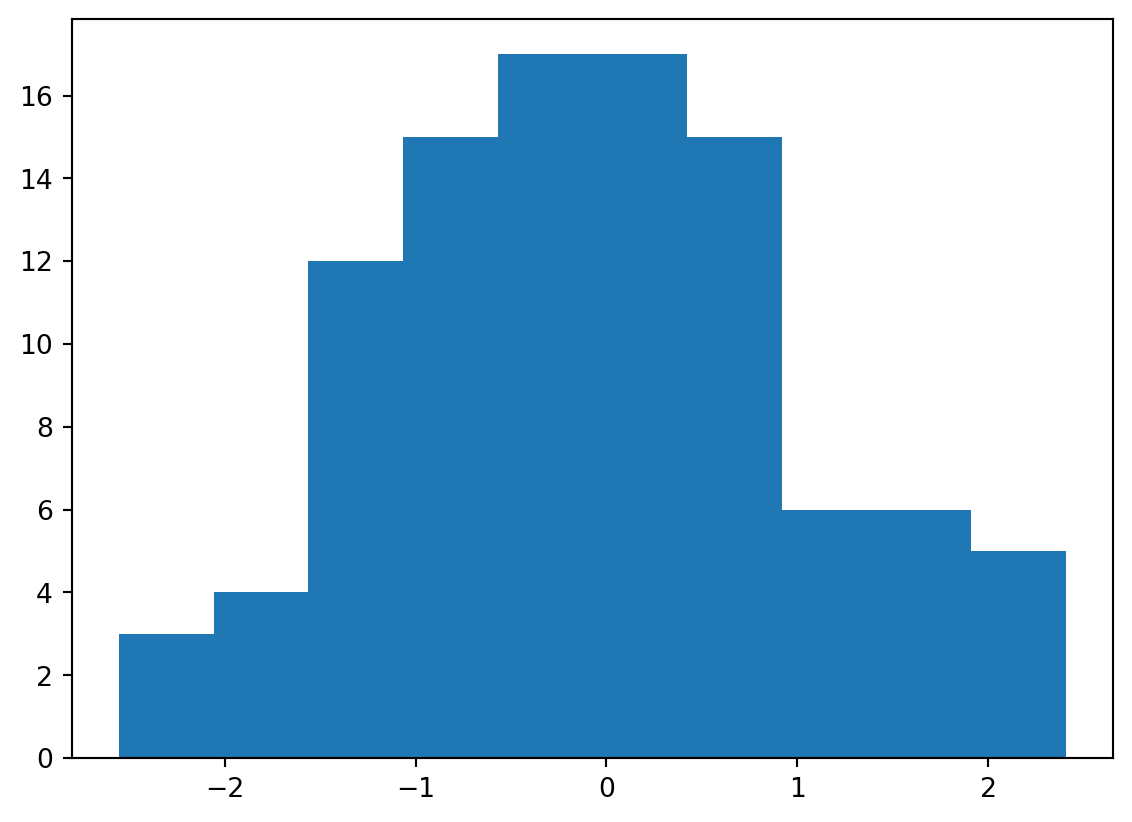
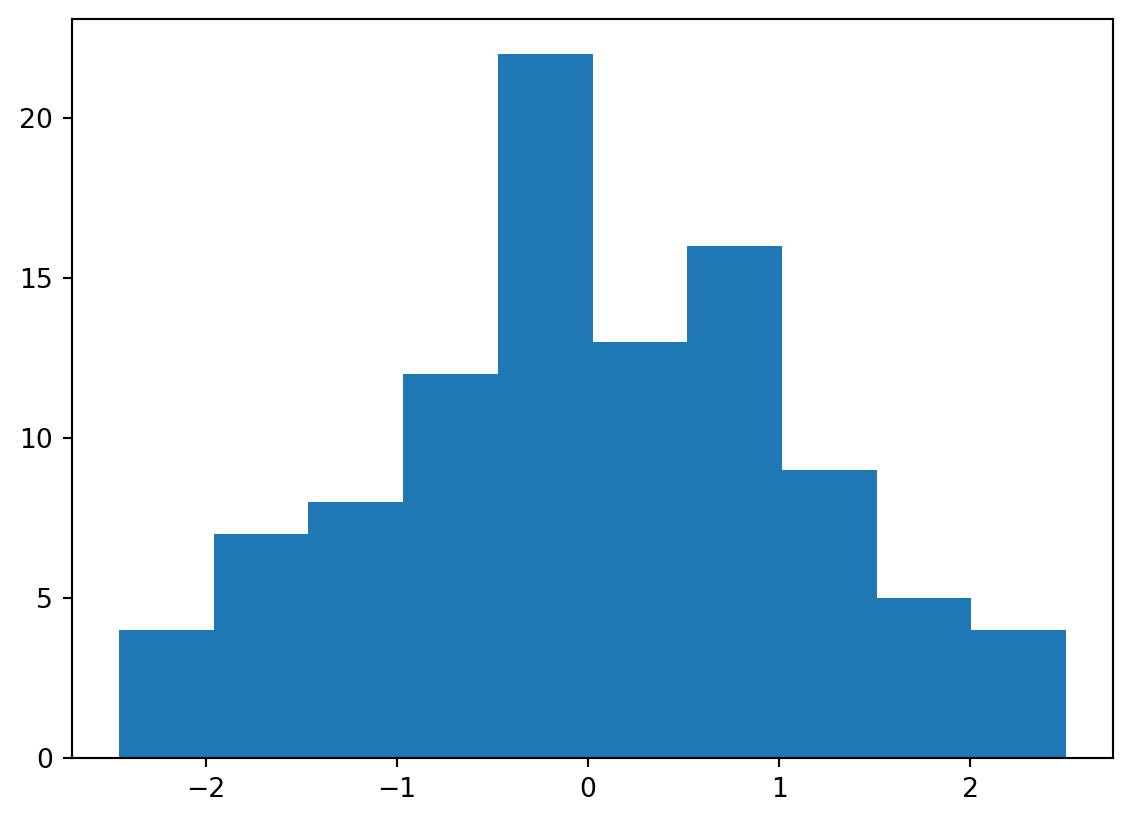
Built site for gh-pages

diff --git a/units/unit1.html b/units/unit1.html
@@ -189,7 +189,7 @@ window.Quarto = {
 <p>This is an example of using qmd as the source document.</p>
 <section id="evaluated-python-code-chunk-with-a-plot" class="level2">
 <h2 class="anchored" data-anchor-id="evaluated-python-code-chunk-with-a-plot">Evaluated Python code chunk, with a plot</h2>
-<div id="38c82d37" class="cell" data-execution_count="1">
+<div id="ceae5589" class="cell" data-execution_count="1">
 <details open="" class="code-fold">
 <summary>Code</summary>
 <div class="sourceCode cell-code" id="cb1"><pre class="sourceCode python code-with-copy"><code class="sourceCode python"><span id="cb1-1"><a href="#cb1-1" aria-hidden="true" tabindex="-1"></a><span class="im">import</span> numpy <span class="im">as</span> np</span>
@@ -207,7 +207,7 @@ window.Quarto = {
 </div>
 </div>
 <div class="cell-output cell-output-display" data-execution_count="1">
-<pre><code>np.float64(0.05763863702115945)</code></pre>
+<pre><code>np.float64(-0.058891390059341464)</code></pre>
 </div>
 </div>
 </section>
@@ -260,7 +260,7 @@ Tip with Title
 </div>
 <div id="tabset-1-2" class="tab-pane" role="tabpanel" aria-labelledby="tabset-1-2-tab">
 <p>This code is executed.</p>
-<div id="3a92c372" class="cell" data-execution_count="2">
+<div id="e2a36f98" class="cell" data-execution_count="2">
 <details open="" class="code-fold">
 <summary>Code</summary>
 <div class="sourceCode cell-code" id="cb4"><pre class="sourceCode python code-with-copy"><code class="sourceCode python"><span id="cb4-1"><a href="#cb4-1" aria-hidden="true" tabindex="-1"></a><span class="kw">def</span> fizz_buzz(num):</span>

diff --git a/units/unit3.html b/units/unit3.html
@@ -191,7 +191,7 @@ $$
 <p>This is an example of using qmd as the source document with pdf as one target. I’ve taken out the qmd stuff that doesn’t seem to render to pdf.</p>
 <section id="evaluated-python-code-chunk-with-a-plot" class="level2">
 <h2 class="anchored" data-anchor-id="evaluated-python-code-chunk-with-a-plot">Evaluated Python code chunk, with a plot</h2>
-<div id="500ee254" class="cell" data-execution_count="1">
+<div id="1d394e46" class="cell" data-execution_count="1">
 <details open="" class="code-fold">
 <summary>Code</summary>
 <div class="sourceCode cell-code" id="cb1"><pre class="sourceCode python code-with-copy"><code class="sourceCode python"><span id="cb1-1"><a href="#cb1-1" aria-hidden="true" tabindex="-1"></a><span class="im">import</span> numpy <span class="im">as</span> np</span>
@@ -209,7 +209,7 @@ $$
 </div>
 </div>
 <div class="cell-output cell-output-display" data-execution_count="1">
-<pre><code>np.float64(-0.05309617978894807)</code></pre>
+<pre><code>np.float64(-0.0060428161379940505)</code></pre>
 </div>
 </div>
 </section>

diff --git a/index.html b/index.html
@@ -316,7 +316,7 @@ Office Hours: TBA.
 First class: Aug 29, 2024 (Thursday).
 </li>
 <li>
-For students who filled in the enrollment appeal forms and concurrent enrollment students: I will process all the petitions on Jan 19. Please come to the first few lectures and decide whether you will take this course.
+For students who filled in the enrollment appeal forms and concurrent enrollment students: I will process all the petitions on Aug 30. Please come to the first few lectures and decide whether you will take this course.
 </li>
 <li>
 We will use Ed for discussions and questions.
@@ -342,10 +342,10 @@ Class attendance is required.
 Homework per two weeks. There will be 6-7 HWs.
 </li>
 <li>
-In class mid-term. Date: Mar 12.
+In class mid-term: TBA.
 </li>
 <li>
-Final exam date: May 9, 8 am - 11 am.
+Final exam date: Dec 17.
 </li>
 <li>
 Final grade will be Homework × 40 % + mid-term × 25 % + final × 35 %.
